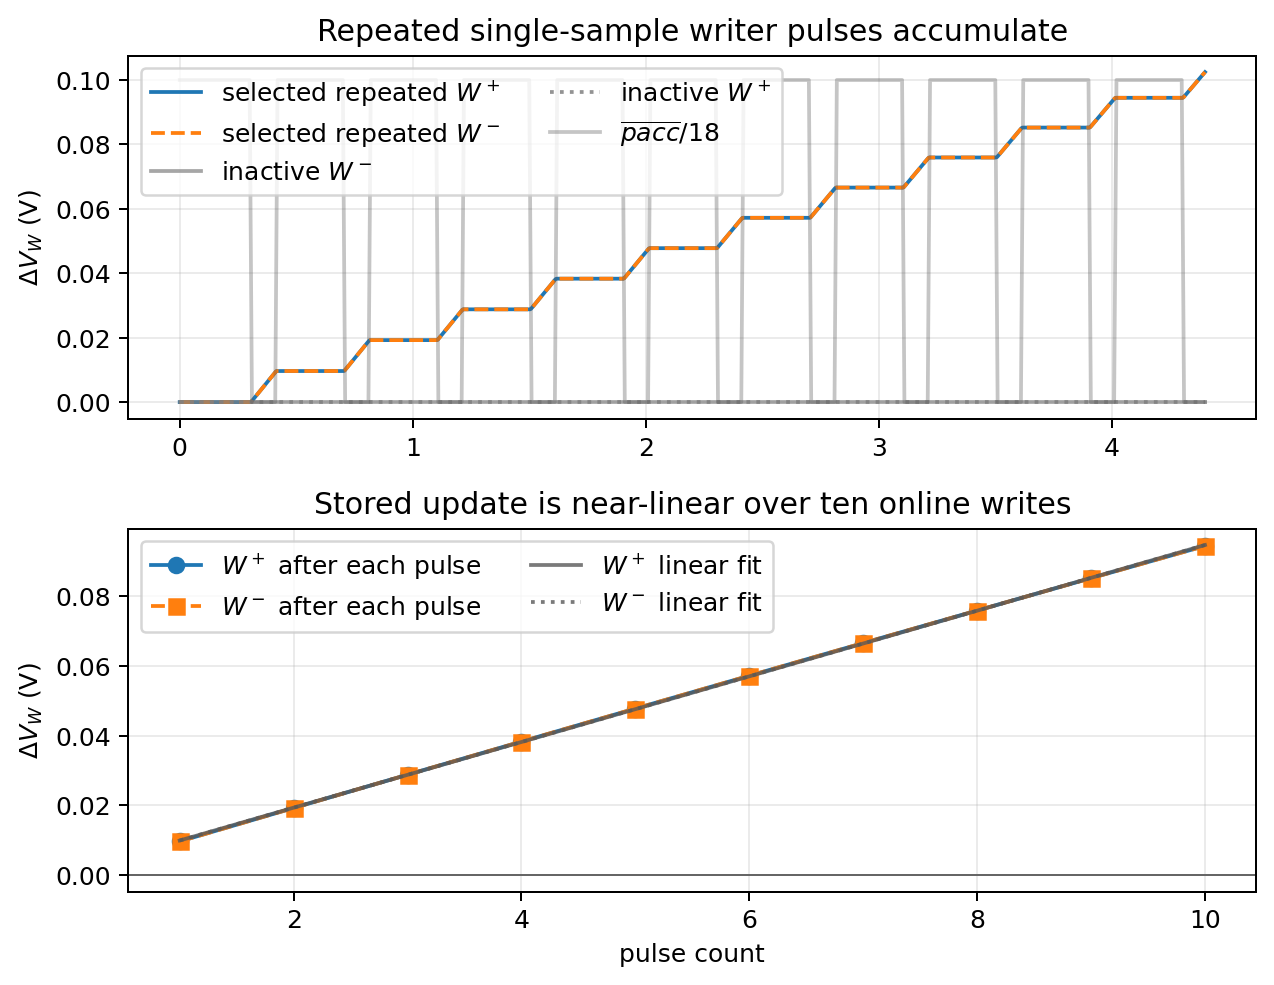
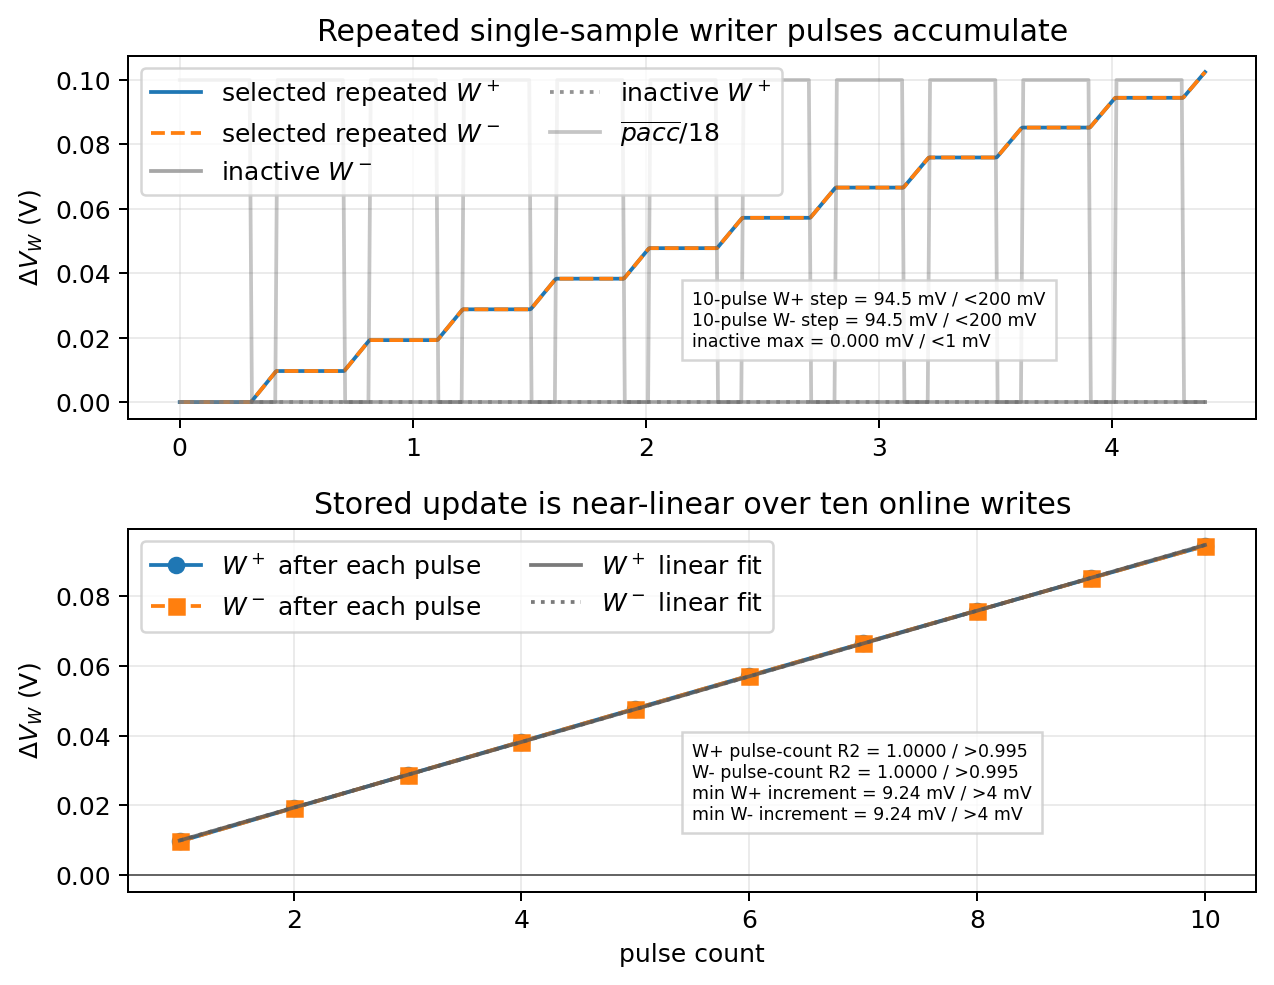
Annotate low level writer margins

Changed region(s): [[0.5204, 0.731, 0.8265, 0.8528], [0.5204, 0.2741, 0.8265, 0.3655]]

diff --git a/spice/run_mos_cell_characterization.py b/spice/run_mos_cell_characterization.py
@@ -17158,10 +17158,16 @@ quit
     same_inactive = np.array([wm_pp_delta, wm_mm_delta])
     opp_selected = np.array([wm_pm_delta, wm_mp_delta])
     opp_inactive = np.array([wp_pm_delta, wp_mp_delta])
+    same_selected_min = float(np.min(same_selected))
+    same_selected_max = float(np.max(same_selected))
+    same_inactive_max = float(np.max(np.abs(same_inactive)))
+    opp_selected_min = float(np.min(opp_selected))
+    opp_selected_max = float(np.max(opp_selected))
+    opp_inactive_max = float(np.max(np.abs(opp_inactive)))
     require(np.all((same_selected > 0.05) & (same_selected < 0.25)), "both same-sign branches should make bounded W+ steps")
-    require(np.max(np.abs(same_inactive)) < 1e-3, "same-sign branches should leave W- quiet")
+    require(same_inactive_max < 1e-3, "same-sign branches should leave W- quiet")
     require(np.all((opp_selected > 0.05) & (opp_selected < 0.25)), "both opposite-sign branches should make bounded W- steps")
-    require(np.max(np.abs(opp_inactive)) < 1e-3, "opposite-sign branches should leave W+ quiet")
+    require(opp_inactive_max < 1e-3, "opposite-sign branches should leave W+ quiet")
 
     sweep_data = run_ngspice(sweep_deck, "mos_writer_width")
     _, sweep_cols = load_wrdata(sweep_data, 4 * len(widths_us))
@@ -17187,8 +17193,11 @@ quit
         ss_tot = float(np.sum((measured - np.mean(measured)) ** 2))
         return 1.0 - ss_res / ss_tot
 
-    require(r_squared(selected_wp_delta, predicted_wp) > 0.98, "W+ writer pulse-width response should be near-linear")
-    require(r_squared(selected_wm_delta, predicted_wm) > 0.98, "W- writer pulse-width response should be near-linear")
+    width_wp_r2 = r_squared(selected_wp_delta, predicted_wp)
+    width_wm_r2 = r_squared(selected_wm_delta, predicted_wm)
+    width_inactive_max = max(float(np.max(np.abs(inactive_wm_delta))), float(np.max(np.abs(inactive_wp_delta))))
+    require(width_wp_r2 > 0.98, "W+ writer pulse-width response should be near-linear")
+    require(width_wm_r2 > 0.98, "W- writer pulse-width response should be near-linear")
 
     analog_data = run_ngspice(analog_gate_deck, "mos_writer_analog_gate")
     atime_gate, analog_cols = load_wrdata(analog_data, 4 * len(analog_gate_levels) * 2 + 1)
@@ -17283,12 +17292,14 @@ quit
     final_pos = float(pos_read_contrib[final_idx])
     baseline_neg = float(neg_read_contrib[baseline_idx])
     final_neg = float(neg_read_contrib[final_idx])
+    pos_read_delta = final_pos - baseline_pos
+    neg_read_delta = final_neg - baseline_neg
     require(read_cols[0][-1] > 0.90, "writer readback should leave W+ in active positive-synapse range")
     require(abs(read_cols[1][-1] - 0.85) < 1e-3, "positive readback should leave inactive W- unchanged")
     require(abs(read_cols[4][-1] - 0.85) < 1e-3, "negative readback should leave inactive W+ unchanged")
     require(read_cols[5][-1] > 0.90, "writer readback should leave W- in active negative-synapse range")
-    require(final_pos > baseline_pos + 30e-6, "written W+ should increase positive synapse contribution")
-    require(final_neg < baseline_neg - 30e-6, "written W- should increase negative synapse contribution magnitude")
+    require(pos_read_delta > 30e-6, "written W+ should increase positive synapse contribution")
+    require(neg_read_delta < -30e-6, "written W- should increase negative synapse contribution magnitude")
 
     repeated_data = run_ngspice(repeated_deck, "mos_writer_repeated")
     rpt, repeated_cols = load_wrdata(repeated_data, 5)
@@ -17307,12 +17318,15 @@ quit
     wm_n_fit = np.polyfit(pulse_numbers, wm_n_steps, 1)
     wp_p_pred = np.polyval(wp_p_fit, pulse_numbers)
     wm_n_pred = np.polyval(wm_n_fit, pulse_numbers)
+    repeated_wp_r2 = r_squared(wp_p_steps, wp_p_pred)
+    repeated_wm_r2 = r_squared(wm_n_steps, wm_n_pred)
+    repeated_inactive_max = max(float(np.max(np.abs(wm_p_steps))), float(np.max(np.abs(wp_n_steps))))
     require(np.all(np.diff(wp_p_steps) > 0.004), "repeated W+ writer pulses should accumulate monotonically")
     require(np.all(np.diff(wm_n_steps) > 0.004), "repeated W- writer pulses should accumulate monotonically")
     require(np.max(np.abs(wm_p_steps)) < 1e-3, "inactive W- rail should stay quiet over repeated W+ pulses")
     require(np.max(np.abs(wp_n_steps)) < 1e-3, "inactive W+ rail should stay quiet over repeated W- pulses")
-    require(r_squared(wp_p_steps, wp_p_pred) > 0.995, "repeated W+ steps should be near-linear with pulse count")
-    require(r_squared(wm_n_steps, wm_n_pred) > 0.995, "repeated W- steps should be near-linear with pulse count")
+    require(repeated_wp_r2 > 0.995, "repeated W+ steps should be near-linear with pulse count")
+    require(repeated_wm_r2 > 0.995, "repeated W- steps should be near-linear with pulse count")
     require(wp_p_samples[-1] < 1.05, "repeated W+ pulses should remain in the incremental write range")
     require(wm_n_samples[-1] < 1.05, "repeated W- pulses should remain in the incremental write range")
 
@@ -17372,6 +17386,17 @@ quit
     axes[0].set_ylabel("cap voltage (V)")
     axes[0].set_title("Both same-sign coincidence branches make bounded W+ steps")
     axes[0].grid(True, alpha=0.25)
+    axes[0].text(
+        0.52,
+        0.18,
+        "selected W+ range = "
+        f"{1e3 * same_selected_min:.1f}-{1e3 * same_selected_max:.1f} mV / 50-250 mV\n"
+        "inactive W- max = "
+        f"{1e3 * same_inactive_max:.3f} mV / <1 mV",
+        transform=axes[0].transAxes,
+        fontsize="x-small",
+        bbox={"facecolor": "white", "alpha": 0.82, "edgecolor": "0.8"},
+    )
     axes[0].legend()
     axes[1].plot(1e6 * t, cols[5], label="$x^+\\delta^- \\to W^-$")
     axes[1].plot(1e6 * t, cols[7], label="$x^-\\delta^+ \\to W^-$")
@@ -17381,6 +17406,17 @@ quit
     axes[1].set_ylabel("cap voltage (V)")
     axes[1].set_title("Both opposite-sign coincidence branches make bounded W- steps")
     axes[1].grid(True, alpha=0.25)
+    axes[1].text(
+        0.52,
+        0.18,
+        "selected W- range = "
+        f"{1e3 * opp_selected_min:.1f}-{1e3 * opp_selected_max:.1f} mV / 50-250 mV\n"
+        "inactive W+ max = "
+        f"{1e3 * opp_inactive_max:.3f} mV / <1 mV",
+        transform=axes[1].transAxes,
+        fontsize="x-small",
+        bbox={"facecolor": "white", "alpha": 0.82, "edgecolor": "0.8"},
+    )
     axes[1].legend()
     axes[2].plot(widths_us, selected_wp_delta, "o-", label="selected $W^+$ step")
     axes[2].plot(widths_us, selected_wm_delta, "o-", label="selected $W^-$ step")
@@ -17393,6 +17429,19 @@ quit
     axes[2].set_ylabel("$\\Delta V_W$ (V)")
     axes[2].set_title("Incremental write magnitude follows pulse width")
     axes[2].grid(True, alpha=0.25)
+    axes[2].text(
+        0.05,
+        0.56,
+        "W+ width-fit R2 = "
+        f"{width_wp_r2:.4f} / >0.98\n"
+        "W- width-fit R2 = "
+        f"{width_wm_r2:.4f} / >0.98\n"
+        "inactive max = "
+        f"{1e3 * width_inactive_max:.3f} mV / <1 mV",
+        transform=axes[2].transAxes,
+        fontsize="x-small",
+        bbox={"facecolor": "white", "alpha": 0.82, "edgecolor": "0.8"},
+    )
     axes[2].legend()
     axes[3].plot(1e6 * rt, 1e6 * pos_read_contrib, label="$W^+$ read contribution")
     axes[3].plot(1e6 * rt, 1e6 * neg_read_contrib, label="$W^-$ read contribution")
@@ -17403,6 +17452,18 @@ quit
     axes[3].set_ylabel("current (uA) / scaled V")
     axes[3].set_title("Written W+ and W- voltages read back with opposite signs")
     axes[3].grid(True, alpha=0.25)
+    axes[3].text(
+        0.05,
+        0.14,
+        "W+ read delta = "
+        f"{1e6 * pos_read_delta:.1f} uA / >30 uA\n"
+        "W- read delta = "
+        f"{1e6 * neg_read_delta:.1f} uA / <-30 uA\n"
+        "inactive rails stay within 1 mV",
+        transform=axes[3].transAxes,
+        fontsize="x-small",
+        bbox={"facecolor": "white", "alpha": 0.82, "edgecolor": "0.8"},
+    )
     axes[3].legend()
     fig.tight_layout()
     writer_plot = save_plot(fig, "mos_writer_ngspice")
@@ -17421,6 +17482,19 @@ quit
     repeated_axes[0].set_ylabel("$\\Delta V_W$ (V)")
     repeated_axes[0].set_title("Repeated single-sample writer pulses accumulate")
     repeated_axes[0].grid(True, alpha=0.25)
+    repeated_axes[0].text(
+        0.50,
+        0.20,
+        "10-pulse W+ step = "
+        f"{1e3 * wp_p_steps[-1]:.1f} mV / <200 mV\n"
+        "10-pulse W- step = "
+        f"{1e3 * wm_n_steps[-1]:.1f} mV / <200 mV\n"
+        "inactive max = "
+        f"{1e3 * repeated_inactive_max:.3f} mV / <1 mV",
+        transform=repeated_axes[0].transAxes,
+        fontsize="x-small",
+        bbox={"facecolor": "white", "alpha": 0.82, "edgecolor": "0.8"},
+    )
     repeated_axes[0].legend(loc="upper left", ncol=2)
     repeated_axes[1].plot(pulse_numbers, wp_p_steps, "o-", label="$W^+$ after each pulse")
     repeated_axes[1].plot(pulse_numbers, wm_n_steps, "s--", label="$W^-$ after each pulse")
@@ -17431,6 +17505,21 @@ quit
     repeated_axes[1].set_ylabel("$\\Delta V_W$ (V)")
     repeated_axes[1].set_title("Stored update is near-linear over ten online writes")
     repeated_axes[1].grid(True, alpha=0.25)
+    repeated_axes[1].text(
+        0.50,
+        0.20,
+        "W+ pulse-count R2 = "
+        f"{repeated_wp_r2:.4f} / >0.995\n"
+        "W- pulse-count R2 = "
+        f"{repeated_wm_r2:.4f} / >0.995\n"
+        "min W+ increment = "
+        f"{1e3 * np.min(np.diff(wp_p_steps)):.2f} mV / >4 mV\n"
+        "min W- increment = "
+        f"{1e3 * np.min(np.diff(wm_n_steps)):.2f} mV / >4 mV",
+        transform=repeated_axes[1].transAxes,
+        fontsize="x-small",
+        bbox={"facecolor": "white", "alpha": 0.82, "edgecolor": "0.8"},
+    )
     repeated_axes[1].legend(loc="upper left", ncol=2)
     repeated_fig.tight_layout()
     save_plot(repeated_fig, "mos_writer_repeated_ngspice")

diff --git a/engineering_log.md b/engineering_log.md
@@ -2,6 +2,16 @@
 
 ## 2026-05-25
 
+- Clarified the low-level MOS writer primitive plots.  The writer decks already
+  asserted four-quadrant branch selection, inactive-rail quietness,
+  pulse-width linearity, readback sign, and repeated online accumulation.  The
+  regenerated `mos_writer_ngspice` and `mos_writer_repeated_ngspice` figures
+  now label those margins directly: same-sign and opposite-sign selected
+  branches each move \(71.7\) mV while inactive rails stay below the displayed
+  \(0.001\) mV resolution, pulse-width fits have \(R^2=1.0000\), readback
+  moves \(+62.8\,\mu\)A and \(-62.8\,\mu\)A for the two signs, and ten
+  repeated online pulses reach \(94.5\) mV per selected rail with
+  \(R^2=1.0000\) and \(9.24\) mV minimum per-pulse increments.
 - Clarified the core hybrid writer accumulation/readback plots.  The repeated,
   alternating, and readback ngspice decks already asserted hidden-error
   storage, restored-gate selectivity, monotone same-sign accumulation,
